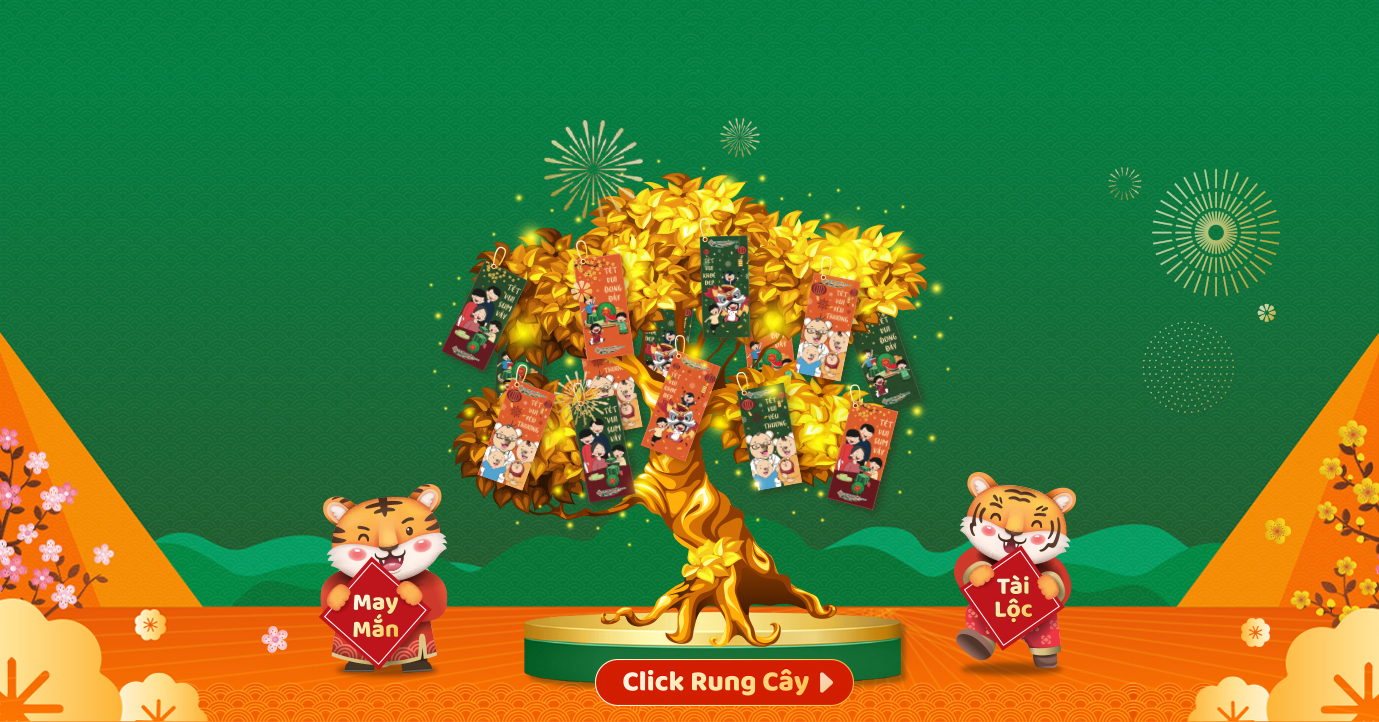
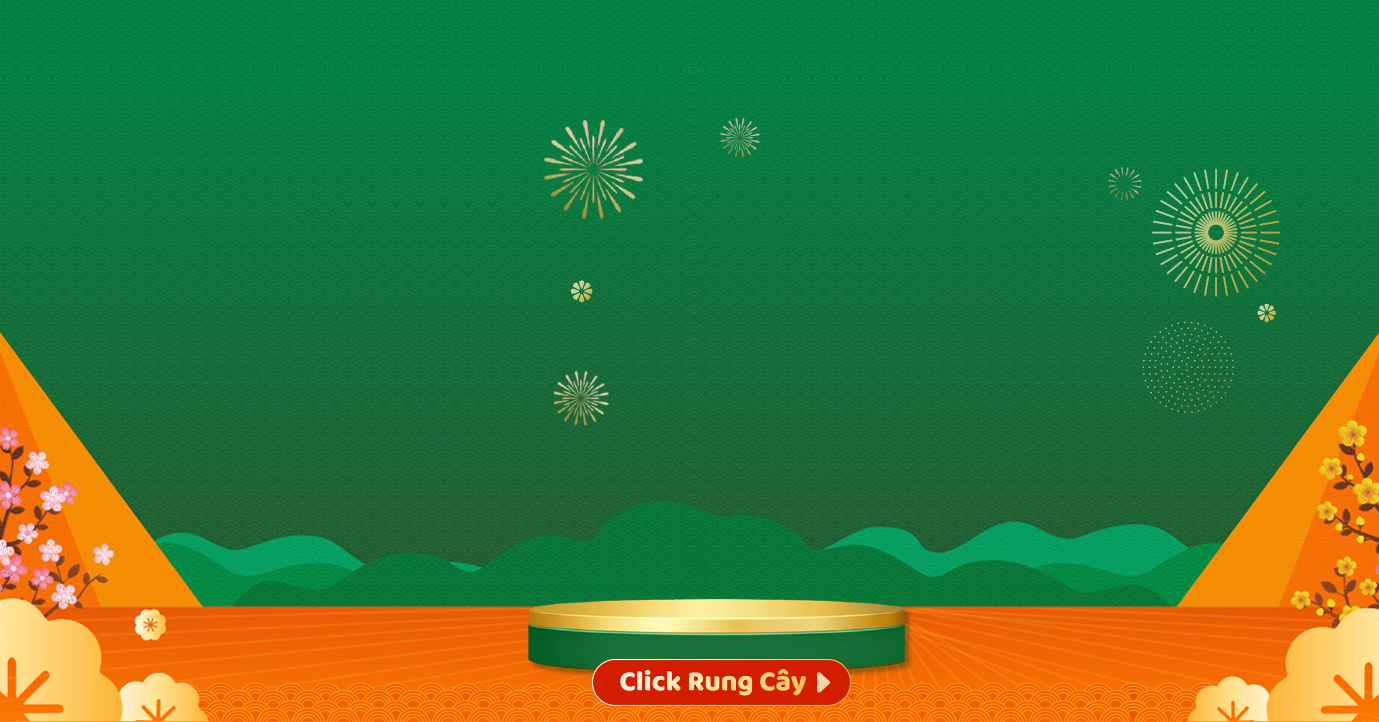
update aniamtion

Changed region(s): [[0.1871, 0.2438, 0.7796, 0.9751], [0.9043, 0.8532, 0.9355, 0.9141], [0.9043, 0.7008, 0.9355, 0.7618]]

diff --git a/html_2021/css/layout.css b/html_2021/css/layout.css
@@ -786,11 +786,38 @@ sup{
   .swiper-container-fade .swiper-slide-active .swiper-slide-active {
     pointer-events:auto;
   }
-  .pt__tiger{
+  .tree__pt{
+	  -webkit-animation: shake 1s linear infinite alternate;
 	  animation: shake 1s linear infinite alternate;
   }
-  .pt__tiger--2{
-	animation: shake 1s linear infinite alternate;
+  .tiger__left, .pt__tiger{
+	-webkit-animation: rotateRight 0.5s linear infinite alternate;
+	animation: rotateRight 0.5s linear infinite alternate;
+  }
+  .tiger__right, .pt__tiger--2{
+	-webkit-animation: rotateLeft 0.5s linear infinite alternate;
+	animation: rotateLeft 0.5s linear infinite alternate;
+  }
+  .pt__flower--1, .pt__flower--2, .pt__flower--3{
+	-webkit-animation: scaleRotate 1.5s infinite linear alternate;
+	animation: scaleRotate 1.5s infinite linear alternate;
+	}
+  @-webkit-keyframes shake {
+	10%, 90% {
+	  transform: translate3d(-1px, 0, 0);
+	}
+	
+	20%, 80% {
+	  transform: translate3d(2px, 0, 0);
+	}
+  
+	30%, 50%, 70% {
+	  transform: translate3d(-4px, 0, 0);
+	}
+  
+	40%, 60% {
+	  transform: translate3d(4px, 0, 0);
+	}
   }
   @keyframes shake {
 	10%, 90% {
@@ -809,6 +836,118 @@ sup{
 	  transform: translate3d(4px, 0, 0);
 	}
   }
+
+  @-webkit-keyframes rotateLeft {
+    0%{
+        -webkit-transform: rotate(0deg);
+        -webkit-transform-origin: 50% 100%;
+        transform: rotate(0deg);
+        transform-origin: 50% 100%;
+    }
+    100%{
+        -webkit-transform: rotate(-8deg);
+        -webkit-transform-origin: 50% 100%;
+        transform: rotate(-8deg);
+        transform-origin: 50% 100%;
+    }
+}
+@keyframes rotateLeft {
+    0%{
+        -webkit-transform: rotate(0deg);
+        -webkit-transform-origin: 50% 100%;
+        transform: rotate(0deg);
+        transform-origin: 50% 100%;
+    }
+    100%{
+        -webkit-transform: rotate(-8deg);
+        -webkit-transform-origin: 50% 100%;
+        transform: rotate(-8deg);
+        transform-origin: 50% 100%;
+    }
+}
+
+
+@-webkit-keyframes rotateRight {
+    0%{
+        -webkit-transform: rotate(0deg);
+        -webkit-transform-origin: 50% 100%;
+        transform: rotate(0deg);
+        transform-origin: 50% 100%;
+    }
+    100%{
+        -webkit-transform: rotate(8deg);
+        -webkit-transform-origin: 50% 100%;
+        transform: rotate(8deg);
+        transform-origin: 50% 100%;
+    }
+}
+@keyframes rotateRight {
+    0%{
+        -webkit-transform: rotate(0deg);
+        -webkit-transform-origin: 50% 100%;
+        transform: rotate(0deg);
+        transform-origin: 50% 100%;
+    }
+    100%{
+        -webkit-transform: rotate(8deg);
+        -webkit-transform-origin: 50% 100%;
+        transform: rotate(8deg);
+        transform-origin: 50% 100%;
+    }
+}
+
+@-webkit-keyframes rotateRight {
+    0%{
+        -webkit-transform: rotate(0deg);
+        -webkit-transform-origin: 50% 100%;
+        transform: rotate(0deg);
+        transform-origin: 50% 100%;
+    }
+    100%{
+        -webkit-transform: rotate(8deg);
+        -webkit-transform-origin: 50% 100%;
+        transform: rotate(8deg);
+        transform-origin: 50% 100%;
+    }
+}
+@keyframes rotateRight {
+    0%{
+        -webkit-transform: rotate(0deg);
+        -webkit-transform-origin: 50% 100%;
+        transform: rotate(0deg);
+        transform-origin: 50% 100%;
+    }
+    100%{
+        -webkit-transform: rotate(8deg);
+        -webkit-transform-origin: 50% 100%;
+        transform: rotate(8deg);
+        transform-origin: 50% 100%;
+    }
+}
+
+@-webkit-keyframes scaleRotate {
+    0%{
+		-webkit-transform: scale(1) rotate(0deg);
+        transform: scale(1) rotate(0deg);
+    }
+    100%{
+		-webkit-transform: scale(1.3) rotate(360deg);
+        transform: scale(1.3) rotate(360deg);
+    }
+}
+@keyframes scaleRotate {
+    0%{
+		-webkit-transform: scale(1) rotate(0deg);
+        transform: scale(1) rotate(0deg);
+    }
+    100%{
+		-webkit-transform: scale(1.3) rotate(360deg);
+        transform: scale(1.3) rotate(360deg);
+    }
+}
+
+
+
 
 @media screen and (max-width: 1389px){
 	/* Header */

diff --git a/html_2021/css/home.css b/html_2021/css/home.css
@@ -191,6 +191,75 @@
     max-width: 43%;
 }
 
+.pt__banner{
+    position: absolute;
+    display: block;
+    height: auto;
+}
+.pt__banner::before{
+    content: '';
+    position: relative;
+    display: block;
+    width: 100%;
+}
+.tree__pt{
+    top: 6%;
+    right: 18%;
+    width: 38.18840%;
+    background: url(../images/tree.png) no-repeat center center;
+    background-size: 100% auto;
+    z-index: 1;
+}
+.tree__pt::before{
+    padding-top: 102.0872%;
+}
+.tiger__right{
+    top: 61%;
+    right: 11%;
+    width: 8.84057%;
+    background: url(../images/patterns/tiger-right.png) no-repeat center center;
+    background-size: 100% auto;
+}
+.tiger__right::before{
+    padding-top: 172.1311%;
+}
+.tiger__left{
+    top: 63%;
+    left: 38%;
+    width: 9.42028%;
+    background: url(../images/patterns/tiger-left.png) no-repeat center center;
+    background-size: 100% auto;
+}
+.tiger__left::before{
+    padding-top: 153.076%;
+}
+.pt__flower--1{
+    bottom: 10%;
+    left: 18%;
+    width: 1.9565%;
+    background: url(../images/patterns/flower-1.png) no-repeat center center;
+    background-size: 100% auto;
+}
+.pt__flower--2{
+    bottom: 25%;
+    right: 7%;
+    width: 1.9565%;
+    background: url(../images/patterns/flower-2.png) no-repeat center center;
+    background-size: 100% auto;
+}
+.pt__flower--3{
+    bottom: 10%;
+    right: 8%;
+    width: 2.1014%;
+    background: url(../images/patterns/flower-3.png) no-repeat center center;
+    background-size: 100% auto;
+}
+.pt__flower--1::before, 
+.pt__flower--2::before, 
+.pt__flower--3::before{
+    padding-top: 100%;
+}
+
 
 
 /* Section text List */
@@ -442,6 +511,16 @@
     font-weight: 600;
     font-style: normal;
     text-transform: capitalize;
+    -webkit-transform: scale(1);
+    transform: scale(1);
+    -webkit-transition: transform 0.3s ease-in-out, box-shadow 0.3s ease-in-out;
+    transition: transform 0.3s ease-in-out, box-shadow 0.3s ease-in-out;
+}
+.item-product .fs-but:hover{
+    -webkit-transform: scale(1.1);
+    transform: scale(1.1);
+    -webkit-box-shadow: 0px 0px 15px 3px rgba(0,137,65,0.6); 
+    box-shadow: 0px 0px 15px 3px rgba(0,137,65,0.6);
 }
 .item-product .fs-but a{
     display: block;
@@ -898,6 +977,7 @@
     width: 14.1945%;
     background: url(../images/pattern_tiger-2.png) no-repeat center center;
     background-size: 100% auto;
+    z-index: 1;
 }
 .pt__tiger--2::before{
     content: '';
@@ -1117,6 +1197,40 @@
         font-size: 4vw;
         line-height: 8.666vw;
         width: 55%;
+    }
+
+    .tree__pt {
+        top: auto;
+        right: 26%;
+        width: 49.1884%;
+        bottom: 3%;
+    }
+    .tiger__left {
+        bottom: 2%;
+        left: 20%;
+        width: 11%;
+        top: auto;
+        z-index: 2;
+    }
+    .tiger__right {
+        bottom: 2%;
+        right: 20%;
+        width: 10.5%;
+        top: auto;
+    }
+    .pt__flower--1 {
+        bottom: 19%;
+        width: 2.9565%;
+    }
+    .pt__flower--2 {
+        bottom: 19%;
+        right: 15%;
+        width: 2.9565%;
+    }
+    .pt__flower--3 {
+        bottom: 10%;
+        right: 14%;
+        width: 3.1014%;
     }
 
 

diff --git a/html_2021/index.html b/html_2021/index.html
@@ -66,7 +66,6 @@
                             </a>
                         </div>
                     </div>
-
                     <!-- add class is-form vào form-inr nếu nhập xong ô input nhập mã hoá đơn -->
                     <div class="box-form">
                         <div class="form-inr">
@@ -93,6 +92,15 @@
                                 </div>
                             </div>
                         </div>
+                    </div>
+
+                    <div class="patters__banner">
+                        <div class="pt__banner tree__pt"></div>
+                        <div class="pt__banner tiger__left"></div>
+                        <div class="pt__banner tiger__right"></div>
+                        <div class="pt__banner pt__flower--1"></div>
+                        <div class="pt__banner pt__flower--2"></div>
+                        <div class="pt__banner pt__flower--3"></div>
                     </div>
                 </div>
             </div>
@@ -853,7 +861,7 @@
         <!--/Popup-->
 
         <!-- pop game -->
-        <div class="modal active">
+        <div class="modal">
             <div class="modal_inr">
                 <div class="close-modal"><img src="images/icon-close.png" alt="Close"></div>
                 <div class="fs-box">
